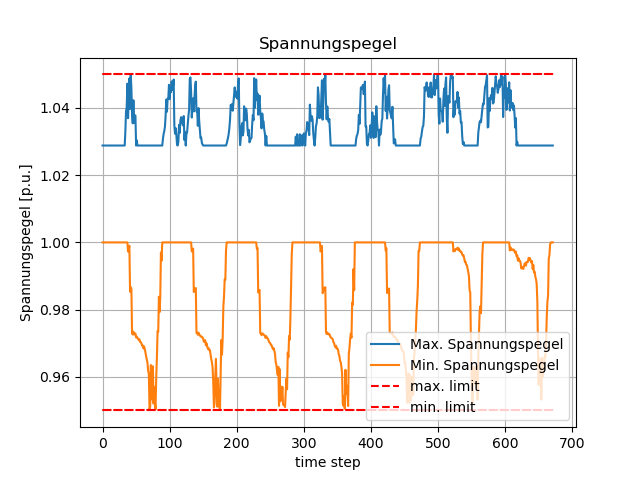
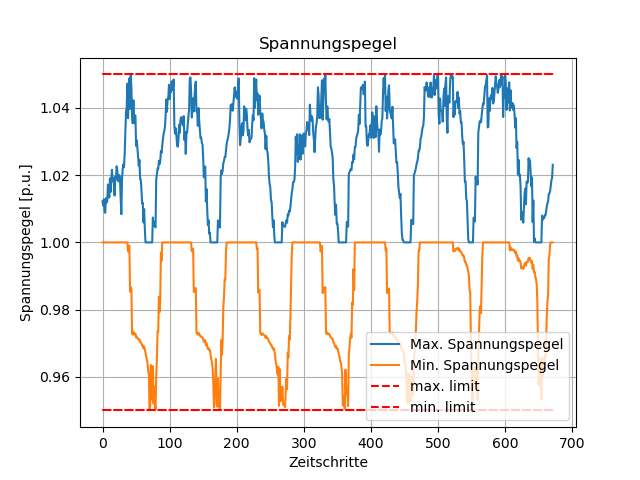
update_4.4

diff --git a/exercises/Kai-Luca/exercise_4/exercise_4.4.py b/exercises/Kai-Luca/exercise_4/exercise_4.4.py
@@ -44,22 +44,19 @@ def create_controllers(net, loads_area3, sgens_area3, ds):
     return net
 
 
-def create_output_writer(net, buses_area3, time_steps, output_dir):
+def create_output_writer(net, buses_area3, lines_area3, time_steps, output_dir):
     ow = OutputWriter(net, time_steps, output_path=output_dir, output_file_type=".xlsx", log_variables=list())
-    mask_hv_buses_area3 = net.bus.loc[buses_area3]
-    mask_lines_area3 = net.line[(net.line.from_bus.isin(buses_area3)) & net.line.to_bus.isin(buses_area3)].index
 
-    ow.log_variable("res_line", "loading_percent", index=mask_lines_area3, eval_function=np.max, eval_name="Max. Leitungsauslastung")
-    ow.log_variable("res_bus", "vm_pu", index=mask_hv_buses_area3, eval_function=np.max, eval_name="Max. Spannungspegel")
-    ow.log_variable("res_bus", "vm_pu", index=mask_hv_buses_area3, eval_function=np.min, eval_name="Min. Spannungspegel")
+    ow.log_variable("res_line", "loading_percent", index=lines_area3, eval_function=np.max, eval_name="Max. Leitungsauslastung")
+    ow.log_variable("res_bus", "vm_pu", index=buses_area3, eval_function=np.max, eval_name="Max. Spannungspegel")
+    ow.log_variable("res_bus", "vm_pu", index=buses_area3, eval_function=np.min, eval_name="Min. Spannungspegel")
 
 def timeseries_area3(output_dir):
     net, buses_area3, lines_area3, loads_area3, sgens_area3 = area3_net()
-    # n_timesteps = len(data.loads)
     profiles, ds, n_timesteps = create_data_source()
     create_controllers(net, loads_area3, sgens_area3, ds)
     time_steps = range(0, n_timesteps)
-    create_output_writer(net, buses_area3, time_steps, output_dir=output_dir)
+    create_output_writer(net, buses_area3, lines_area3, time_steps, output_dir)
     run_timeseries(net, time_steps)
 
 
@@ -75,7 +72,7 @@ vm_pu = pd.read_excel(vm_pu_file, index_col=0)
 vm_pu.plot(label="vm_pu")
 plt.hlines(y=1.05, xmin=0, xmax=len(vm_pu), linestyles="dashed", label="max. limit", color="red")
 plt.hlines(y=0.95, xmin=0, xmax=len(vm_pu), linestyles="dashed", color="red", label="min. limit")
-plt.xlabel("Zeitschritt")
+plt.xlabel("Zeitschritte")
 plt.ylabel("Spannungspegel [p.u.]")
 plt.title("Spannungspegel")
 plt.legend()

diff --git a/exercises/Kai-Luca/exercise_4/exercise_4.2.py b/exercises/Kai-Luca/exercise_4/exercise_4.2.py
@@ -43,6 +43,7 @@ def create_controllers(net, loads_area3, sgens_area3, ds):
 
 
 def create_output_writer(net, buses_area3, lines_area3, time_steps, output_dir):
+    #
     ow = OutputWriter(net, time_steps, output_path=output_dir, output_file_type=".xlsx", log_variables=list())
 
     ow.log_variable("res_line", "loading_percent", index=lines_area3, eval_function=np.max, eval_name="max. Leitungsauslastung")
@@ -50,8 +51,8 @@ def create_output_writer(net, buses_area3, lines_area3, time_steps, output_dir):
     ow.log_variable("res_bus", "vm_pu", index=buses_area3, eval_function=np.min, eval_name="min. Spannungspegel")
 
 def timeseries_area3(output_dir):
+    #
     net, buses_area3, lines_area3, loads_area3, sgens_area3 = area3_net()
-    #n_timesteps = len(data.loads)
     profiles, ds, n_timesteps = create_data_source()
     create_controllers(net, loads_area3, sgens_area3, ds)
     time_steps = range(0, n_timesteps)
@@ -81,8 +82,8 @@ plt.show()
 line_loading_file = os.path.join(output_dir, "res_line", "loading_percent.xlsx")
 line_loading = pd.read_excel(line_loading_file, index_col=0)
 line_loading.plot(label="Leitungsauslastung")
-plt.hlines(y=100, xmin=0, xmax=len(line_loading), linestyles="dashed", color="red", label="limit")
-plt.xlabel("Zeitschritt")
+plt.hlines(y=100, xmin=0, xmax=len(line_loading), linestyles="dashed", color="red", label="max. limit")
+plt.xlabel("Zeitschritte")
 plt.ylabel("Leitungsauslastung [%]")
 plt.title("Leitungsauslastung")
 plt.legend()
